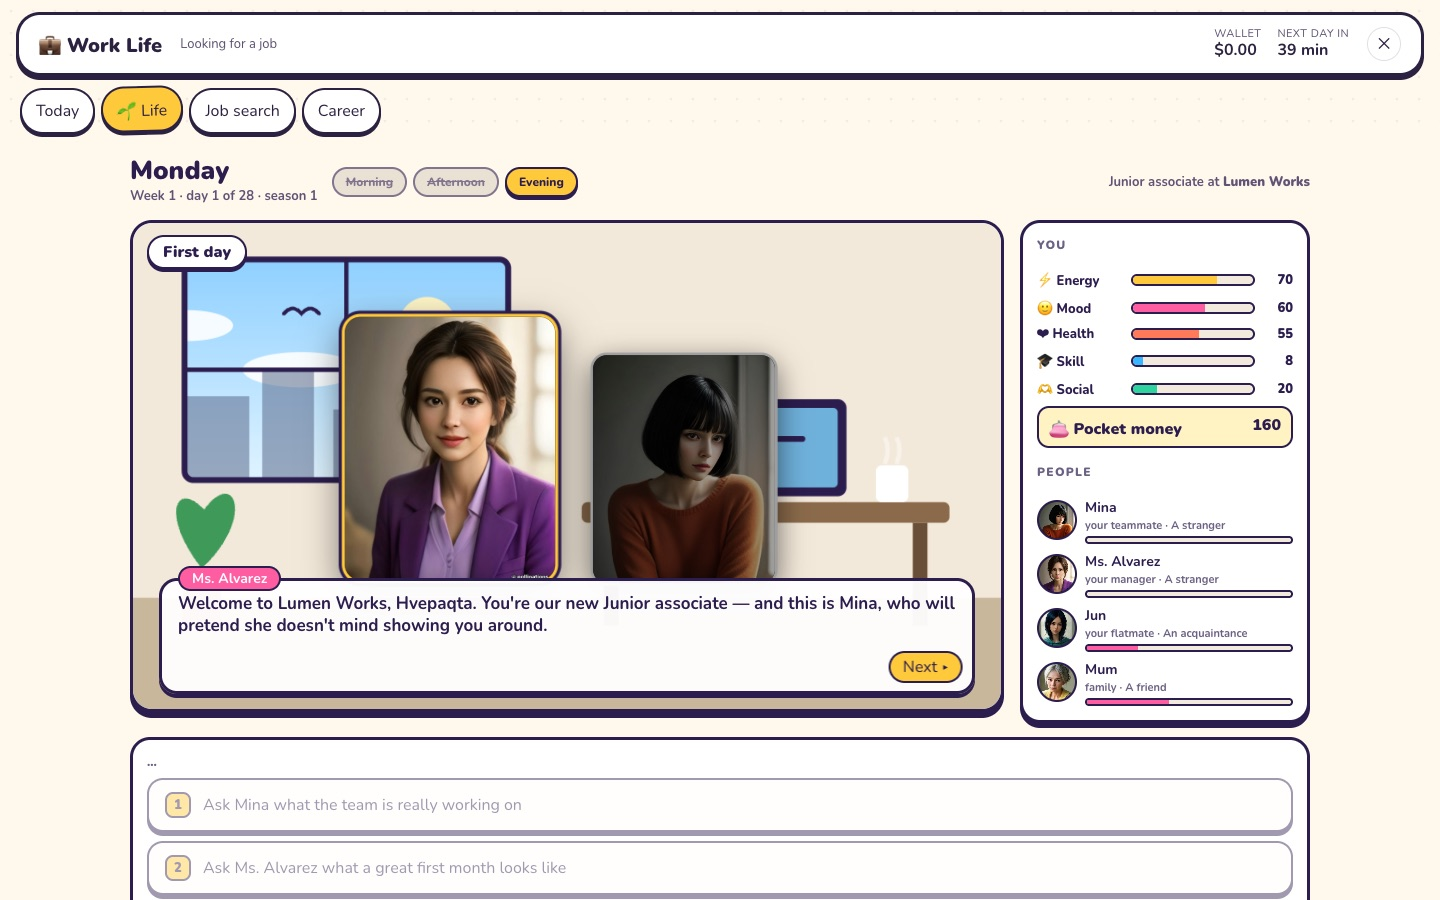
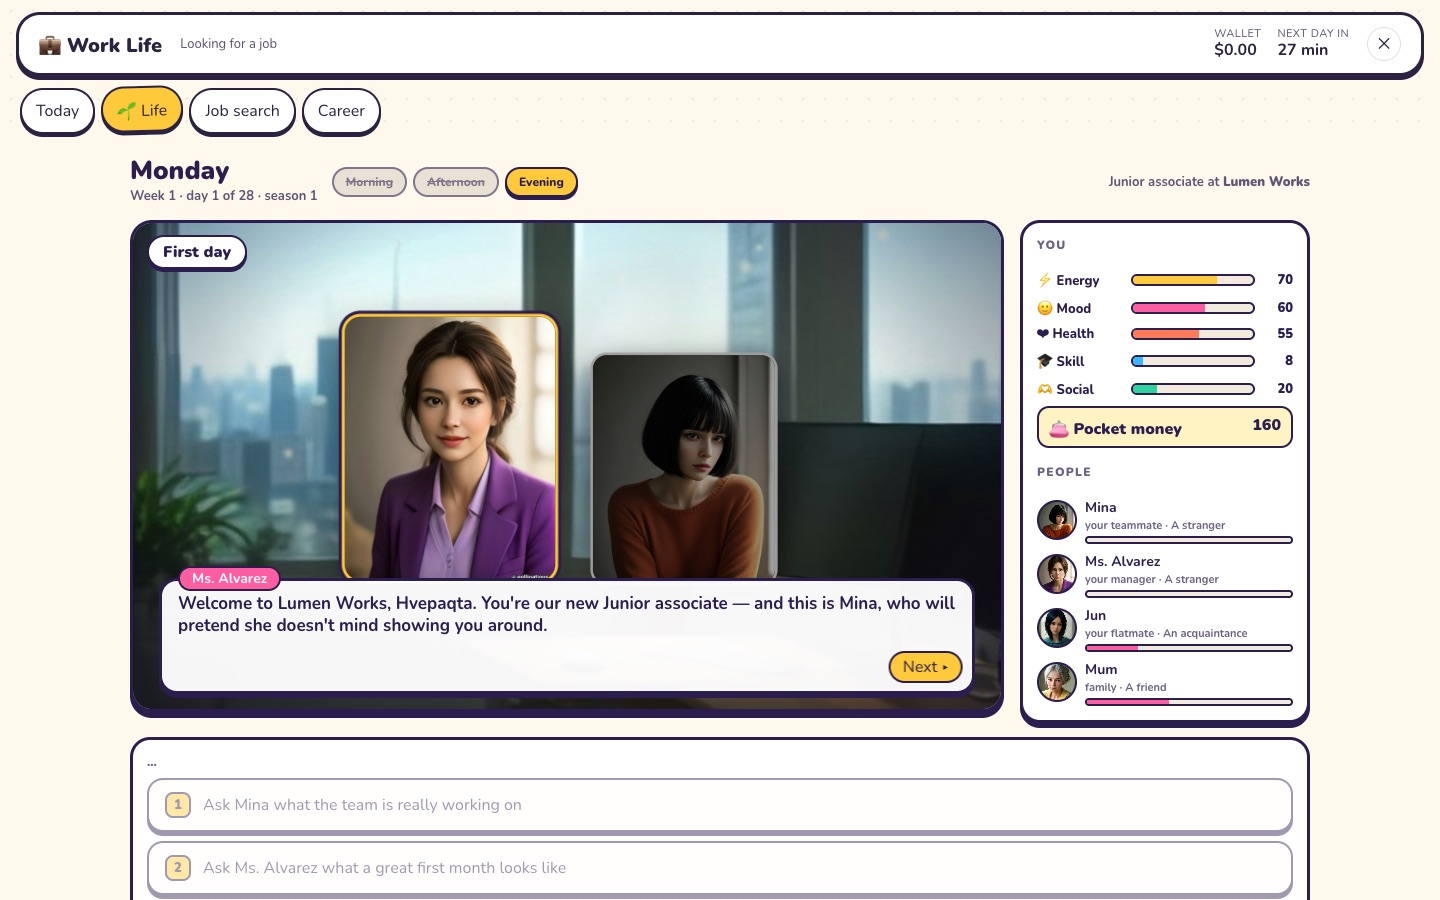
Work Life: realistic places — office, meeting room, flat, café and park by day and night
The drawn backdrops give way to photographs made once by an image-
generating AI (kept in public/work-scenes, credited on screen). Over each
the game lays the light of the hour, a slow drift of the camera, small
lights or rain in the air and a soft edge. Every person now has a face.

Changed region(s): [[0.0938, 0.2489, 0.7188, 0.8089]]

diff --git a/src/work/work.css b/src/work/work.css
@@ -1193,3 +1193,71 @@
 .lf__credit {
   font-size: 11px;
 }
+
+/* ---- a photograph for a place: the hour's light, air that moves, a soft edge ---- */
+.lf__stage.is-photo .lf__cam {
+  inset: -4%;
+  animation: lf-pan 26s ease-in-out infinite alternate;
+}
+@keyframes lf-pan {
+  from { scale: 1.02; translate: -1.2% 0.6%; }
+  to { scale: 1.1; translate: 1.2% -0.8%; }
+}
+.lf__grade,
+.lf__vignette,
+.lf__air {
+  position: absolute;
+  inset: 0;
+  pointer-events: none;
+}
+.lf__grade {
+  mix-blend-mode: soft-light;
+}
+.is-part-0 .lf__grade { background: linear-gradient(180deg, rgba(255, 196, 120, 0.55), rgba(255, 230, 190, 0.2) 60%, transparent); }
+.is-part-1 .lf__grade { background: linear-gradient(180deg, rgba(255, 255, 255, 0.12), transparent 50%); }
+.is-part-2 .lf__grade { background: linear-gradient(180deg, rgba(120, 80, 190, 0.5), rgba(255, 140, 90, 0.35) 70%, rgba(40, 20, 70, 0.3)); mix-blend-mode: overlay; }
+.is-part-3 .lf__grade { background: linear-gradient(180deg, rgba(20, 30, 80, 0.55), rgba(10, 14, 40, 0.45)); mix-blend-mode: multiply; }
+.lf__vignette {
+  background: radial-gradient(ellipse at 50% 42%, transparent 52%, rgba(12, 8, 30, 0.5) 100%);
+}
+.lf__air i {
+  position: absolute;
+  width: calc(7px * var(--s));
+  height: calc(7px * var(--s));
+  border-radius: 50%;
+  background: rgba(255, 244, 214, 0.75);
+  filter: blur(2.5px);
+  opacity: 0;
+  animation: lf-mote 9s linear infinite;
+}
+.is-part-2 .lf__air i,
+.is-part-3 .lf__air i {
+  background: rgba(255, 214, 140, 0.8);
+  filter: blur(3.5px);
+}
+@keyframes lf-mote {
+  0% { transform: translate(0, 0) scale(0.6); opacity: 0; }
+  15% { opacity: 0.75; }
+  85% { opacity: 0.6; }
+  100% { transform: translate(46px, -90px) scale(1.2); opacity: 0; }
+}
+.lf__air.is-rain i {
+  width: 2px;
+  height: 26px;
+  border-radius: 1px;
+  background: rgba(210, 230, 255, 0.7);
+  filter: none;
+  animation: lf-raindrop 0.55s linear infinite;
+}
+@keyframes lf-raindrop {
+  from { transform: translate(0, -60px) rotate(12deg); opacity: 0.9; }
+  to { transform: translate(-34px, 170px) rotate(12deg); opacity: 0.2; }
+}
+/* On a photograph the caption sits as a glass strip, not a white card over the picture. */
+.lf__stage.is-photo .lf__caption {
+  background: rgba(255, 255, 255, 0.88);
+  backdrop-filter: blur(10px);
+}
+@media (prefers-reduced-motion: reduce) {
+  .lf__stage.is-photo .lf__cam, .lf__air i { animation: none !important; }
+}

diff --git a/src/work/LifeView.js b/src/work/LifeView.js
@@ -162,6 +162,13 @@ export class LifeView {
     const photo = this.pics[`${place}-${part}`] ?? this.pics[place];
     cam.innerHTML = photo ? `<img class="lf__photo" src="./work-scenes/${esc(photo)}" alt="" draggable="false">` : backdrop(place, part, { rain: id === 'sora-rain' });
     stage.append(cam);
+    if (photo) {
+      // A photograph is one moment: the light of the hour, a little drifting dust or rain, and a soft edge make it a place.
+      stage.classList.add('is-photo', `is-part-${part}`);
+      const air = el('div', `lf__air ${id === 'sora-rain' ? 'is-rain' : ''}`);
+      air.innerHTML = Array.from({ length: id === 'sora-rain' ? 40 : 16 }, (_, i) => `<i style="left:${(i * 61) % 100}%;top:${(i * 37) % 100}%;animation-delay:-${(i * 0.7) % 9}s;--s:${0.6 + ((i * 13) % 10) / 8}"></i>`).join('');
+      stage.append(el('div', 'lf__grade'), air, el('div', 'lf__vignette'));
+    }
     stage.addEventListener('pointermove', (e) => {
       const r = stage.getBoundingClientRect();
       stage.style.setProperty('--px', ((e.clientX - r.left) / r.width - 0.5).toFixed(3));

diff --git a/docs/work-life.md b/docs/work-life.md
@@ -14,11 +14,6 @@ Game money only.
   <img src="screenshots/work-interview.jpg" width="100%" alt="The interview: three workplace questions with four answers each" />
 </p>
 
-<p>
-  <img src="screenshots/work-life-result.jpg" width="49%" alt="A Life scene: your first day in the office, your manager and Mina on the stage, Mina's answer in a speech box with what it changed (+3 Skill, Mina +6), your stats and the people you know beside it" />
-  <img src="screenshots/work-life-cut.jpg" width="49%" alt="A moment between scenes: you at your desk for 'A steady day', ticks floating up, the time of day and next game day in the bar" />
-</p>
-
 *The screenshots come from the test suite, which runs on made-up news.*
 
 ## Life: the days around the job
@@ -29,6 +24,9 @@ working life. (The stories, people and places are our own.)
 <p>
   <img src="screenshots/work-life-scene.jpg" width="49%" alt="A Life scene with photographs: an office at dusk, two people's portraits on the stage, the one speaking lit and framed in gold, her words in a speech box, your stats and the people you know beside it" />
   <img src="screenshots/work-life-task.jpg" width="49%" alt="A hard choice being done: under the dimmed scene, a small task to play — put five jobs in order — with the mark to reach and what your energy adds to it" />
+</p>
+<p>
+  <img src="screenshots/work-life-park.jpg" width="100%" alt="An evening run: a real park at night, a lamp lit on the path, small lights drifting in the air, and what the run did to you (+3 Health, −12 Energy, +6 Mood); under it, the wait until tomorrow morning" />
 </p>
 
 - **It keeps the game's time, like real life.** A day in Life is a game day (2 hours 24 minutes of
@@ -84,7 +82,9 @@ working life. (The stories, people and places are our own.)
 
 **The pictures.** People and places are **photographs made once by an image-generating AI** and
 kept with the game in `public/work-scenes/` (thirteen people in three moods, six places by day and
-by night); nothing is generated while you play. They were made with `npm run work:images -- --free
+by night); nothing is generated while you play. Over a place's photograph the game lays the light
+of the hour (warm in the morning, violet at dusk, blue at night), a slow drift of the camera, small
+lights or rain in the air, and a soft edge, so a still picture reads as somewhere you are. They were made with `npm run work:images -- --free
 --people`, which uses pollinations.ai's free service at its allowed pace (one picture every 45
 seconds; its small mark is left on each picture and it is credited on screen). The people and
 places are invented — no real person is shown. With your own image service
